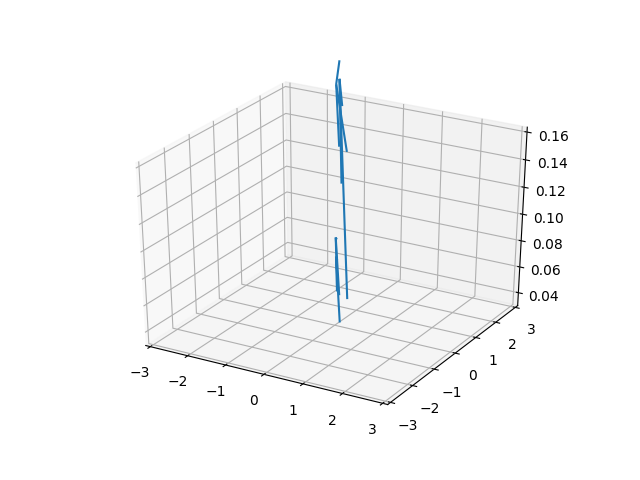
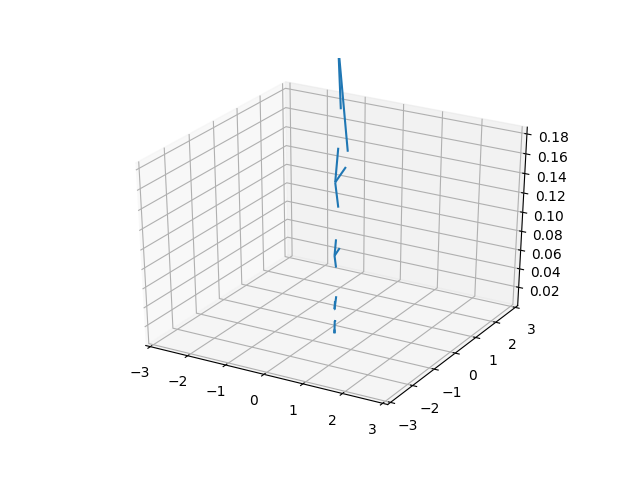
3D axes changed and rotated

diff --git a/word2blank/ongoing/word2vec-symplectic/visualizer/visualizer.py b/word2blank/ongoing/word2vec-symplectic/visualizer/visualizer.py
@@ -25,7 +25,7 @@ def get_embs(emb, wordlist):
 def plot(mat, fname):
     X, Y, Z, U, V, W = zip(*mat)
     fig = plt.figure()
-    ax = fig.gca(projection='3d')
+    ax = fig.add_subplot(111, projection='3d')
     ax.quiver(X, Y, Z, U, V, W)
     ax.set_xlim([-3, 3])
     ax.set_ylim([-3, 3])
@@ -36,7 +36,7 @@ def plot(mat, fname):
 if __name__ == '__main__':
     emb1 = load_embedding('posvel_models/symp-size4-dim6-text8.bin', True)
     emb2 = load_embedding('posvel_models/syn1neg-symp-size4-dim6-text8.bin', True)
-    wordlist = ['king', 'man', 'queen', 'woman']
+    wordlist = ['good', 'better', 'best', 'bad', 'worse', 'worst']
     mat1 = get_embs(emb1, wordlist)
     mat2 = get_embs(emb2, wordlist)
     print(mat1)
